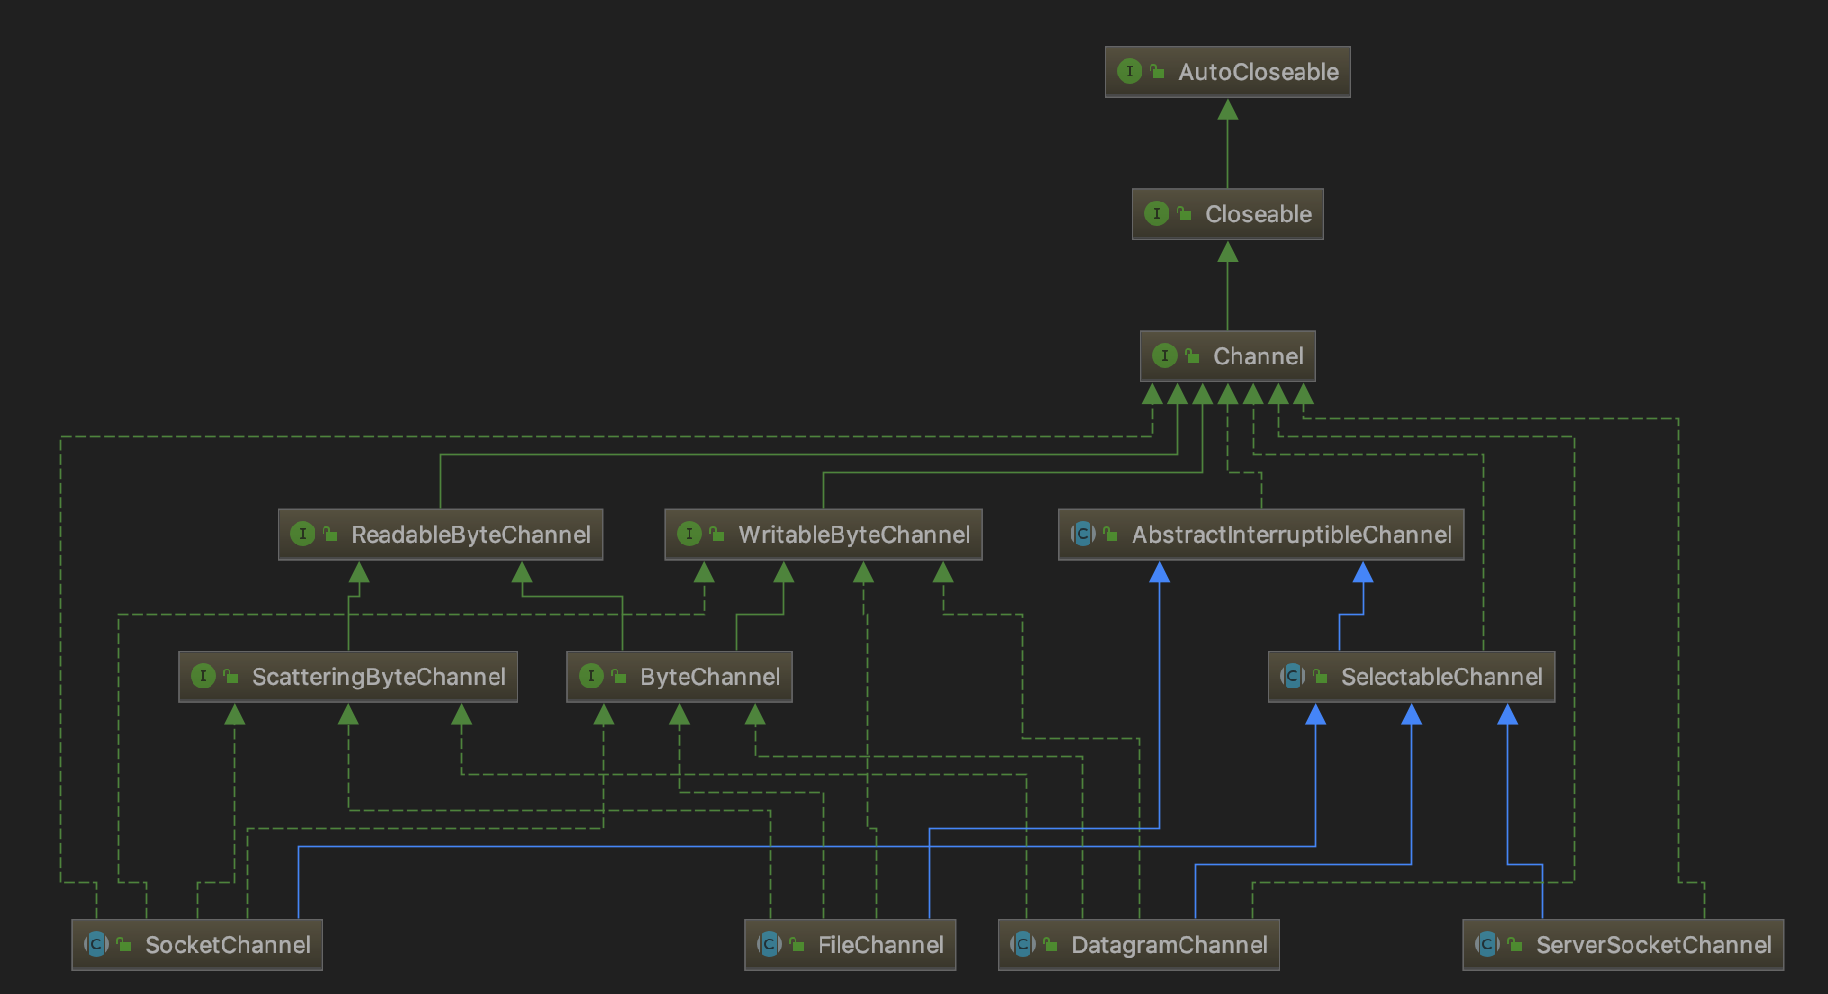
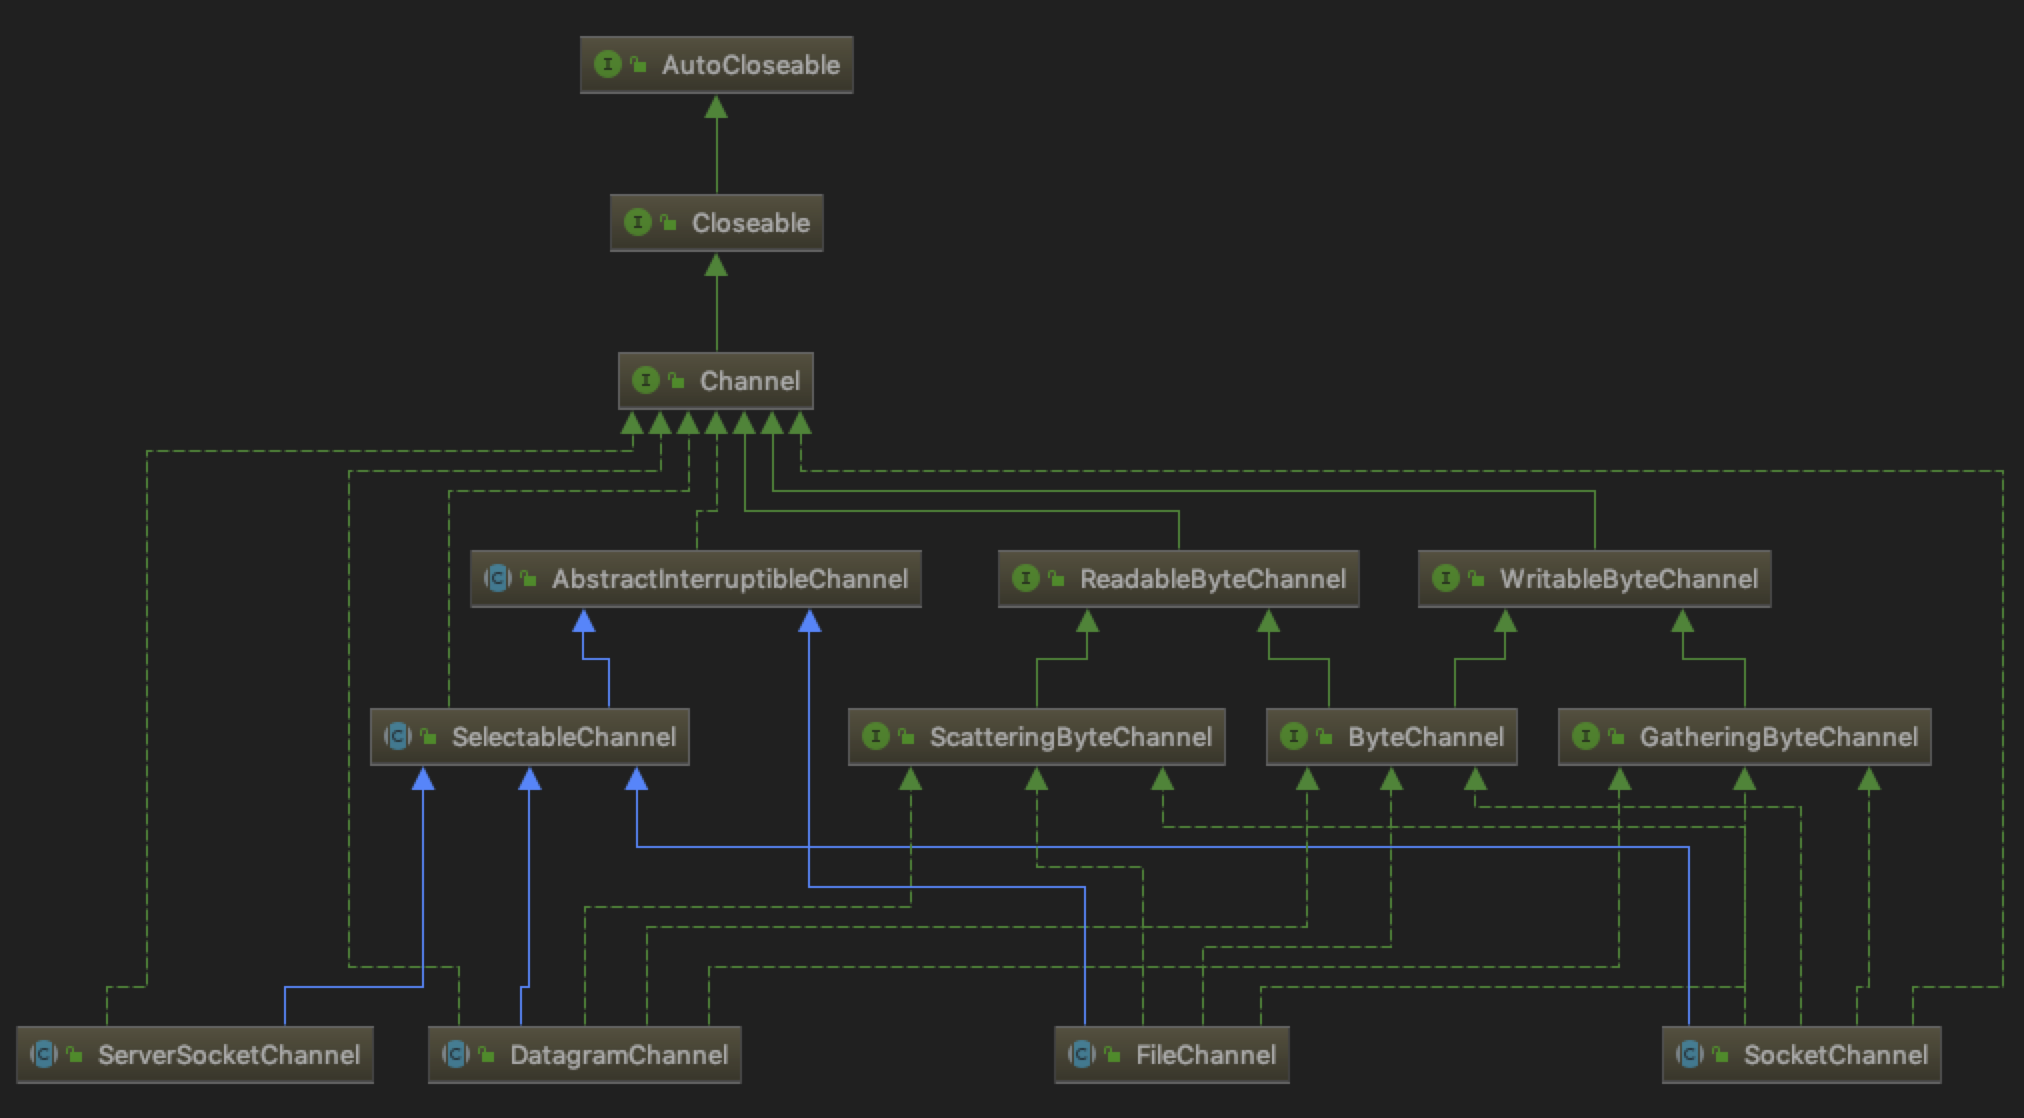
nio

diff --git a/_posts/2019-04-28-nio.md b/_posts/2019-04-28-nio.md
@@ -140,20 +140,120 @@ public abstract class CharBuffer extends Buffer implements CharSequence, Compara
 
 ## 2. 通道
 
-Channel 用于在字节缓冲区和位于通道另一侧的实体（通常是一个文件或套接字）之间有效地传输数据。
+Channel 用于在字节缓冲区和位于通道另一侧的实体（通常是一个文件或套接字）之间有效地传输数据。通道分为**文件通道**和**套接字通道**。
+
+```java
+public interface Channel extends Closeable {
+  	/**
+  	 * 判断通道是否打开
+  	 **/
+    public boolean isOpen();
+  	/**
+  	 * 关闭通道
+  	 **/
+    public void close() throws IOException;
+}
+```
+
+### 2.1 继承体系
 
 ![channel](/assets/img/channel.png)
 
-### Channel
+#### 2.1.1 打开关闭通道
 
+```java
+SocketChannel sc = SocketChannel.open();
+sc.connect (new InetSocketAddress ("somehost", someport));
+ServerSocketChannel ssc = ServerSocketChannel.open( );
+ssc.socket().bind (new InetSocketAddress (somelocalport));
+DatagramChannel dc = DatagramChannel.open();
+RandomAccessFile raf = new RandomAccessFile ("somefile", "r");
+FileChannel fc = raf.getChannel();
+```
 
+#### 2.1.2 单向通道和双向通道
 
-## 选择器
+通道可以是**单向**（*unidirectional*）或者**双向**的（*bidirectional*）。一个 channel 类可能实现定义 *read( )*方法的 *ReadableByteChannel* 接口，也可以实现 *WritableByteChannel* 接口以提供 *write( )*方法。实现这两种接口其中之一的类都是单向的，只能在一个方向上传输数据。如果一个类同时实现这两个接口，那么它是双向的，可以双向传输数据。
+
+- `ReadableByteChannel` 
+- `WritableByteChannel`
+
+#### 2.1.3 可中断通道
+
+如果一个通道实现 *InterruptibleChannel* 接口，它的行为以下述语义为准：
+
+- 如果一个线程在一个通道上被阻塞并且同时被中断（由调用该被阻塞线程的 *interrupt()*方法的另一个线程中断），那么该通道将被关闭，该被阻塞线程也会产生一个 *ClosedByInterruptException* 异常。
+- 假如一个线程的 *interrupt status* 被设置并且该线程试图访问一个通道，那么这个通道将立即被关闭，同时将抛出相同的 *ClosedByInterruptException* 异常。
+
+#### 2.1.4 SelectableChannel
+
+通道可以以阻塞（*blocking*）或非阻塞（*nonblocking*）模式运行。非阻塞模式的通道永远不会让调用的线程休眠。请求的操作要么立即完成，要么返回一个结果表明未进行任何操作。
+
+```java
+public abstract class SelectableChannel extends 
+    AbstractInterruptibleChannel implements Channel {
+    public abstract SelectableChannel configureBlocking(boolean block) throws IOException;
+}
+```
+
+### 2.2 矢量 IO
+
+矢量 IO 是指在多个缓冲区上实现的 I/O 操作：
+
+- ScatteringByteChannel：对于一个 *write* 操作而言，数据是从几个缓冲区按顺序抽取（称为 *gather*）并沿着通道发送的。*gather* 过程的效果就好比全部缓冲区的内容被连结起来，并在发送数据前存放到一个大的缓冲区中。
+- GatheringByteChannel：对于 *read* 操作而言，从通道读取的数据会按顺序被散布（称为 *scatter*）到多个缓冲区，将每个缓冲区填满直至通道中的数据或者缓冲区的最大空间被消耗完。
+
+### 2.3 FileChannel
+
+- 文件通道总是阻塞式的。
+- *FileChannel*实例只能通过在一个 打开的 file 对象（*RandomAccessFile*、*FileInputStream*或 *FileOutputStream*）上调用 *getChannel()* 方法获取。
+- *FileChannel* 对象是线程安全（thread-safe）的。
+
+### 2.4 Socket 通道
+
+Socket 通道可以在非阻塞模式下运行。
+
+#### 2.4.1 ServerSocketChannel
+
+*ServerSocketChannel* 负责监听传入的连接和创建新的 *SocketChannel* 对象，它本身不传输数据。
+
+```java
+public abstract class ServerSocketChannel extends AbstractSelectableChannel implements NetworkChannel {
+    protected ServerSocketChannel(SelectorProvider provider) {
+        super(provider);
+    }
+  	/**
+  	 * 创建一个新的 ServerSocketChannel 对象，将会返回同一个未绑定的 ServerSocket 关联的通道。
+  	 **/
+    public static ServerSocketChannel open() throws IOException {
+        return SelectorProvider.provider().openServerSocketChannel();
+    }
+    public final int validOps() {
+        return SelectionKey.OP_ACCEPT;
+    }
+  	/**
+  	 * 绑定到一个端口以开始监听连接
+  	 **/
+    public final ServerSocketChannel bind(SocketAddress local) throws IOException {
+        return bind(local, 0);
+    }
+    public abstract ServerSocketChannel bind(SocketAddress local, int backlog) throws IOException;
+    public abstract <T> ServerSocketChannel setOption(SocketOption<T> name, T value) throws IOException;
+    public abstract ServerSocket socket();
+    public abstract SocketChannel accept() throws IOException;
+    @Override
+    public abstract SocketAddress getLocalAddress() throws IOException;
+}
+```
+
+#### 2.4.2 SocketChannel
+
+#### 2.4.3 DatagramChannel
+
+## 3. 选择器
+
+![selectionkey](/assets/img/selectionkey.png)
 
 ### Selector
-
-### SelectableChannel
-
-FileChannel 是不可选择的。
 
 ### SelectionKey
